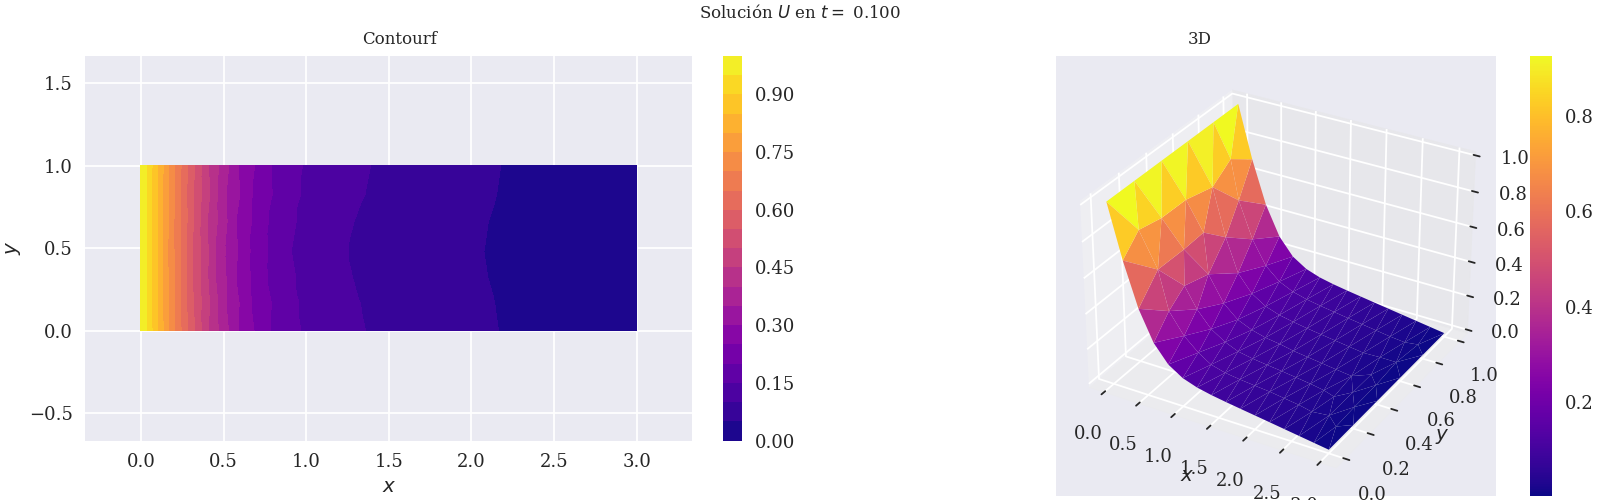
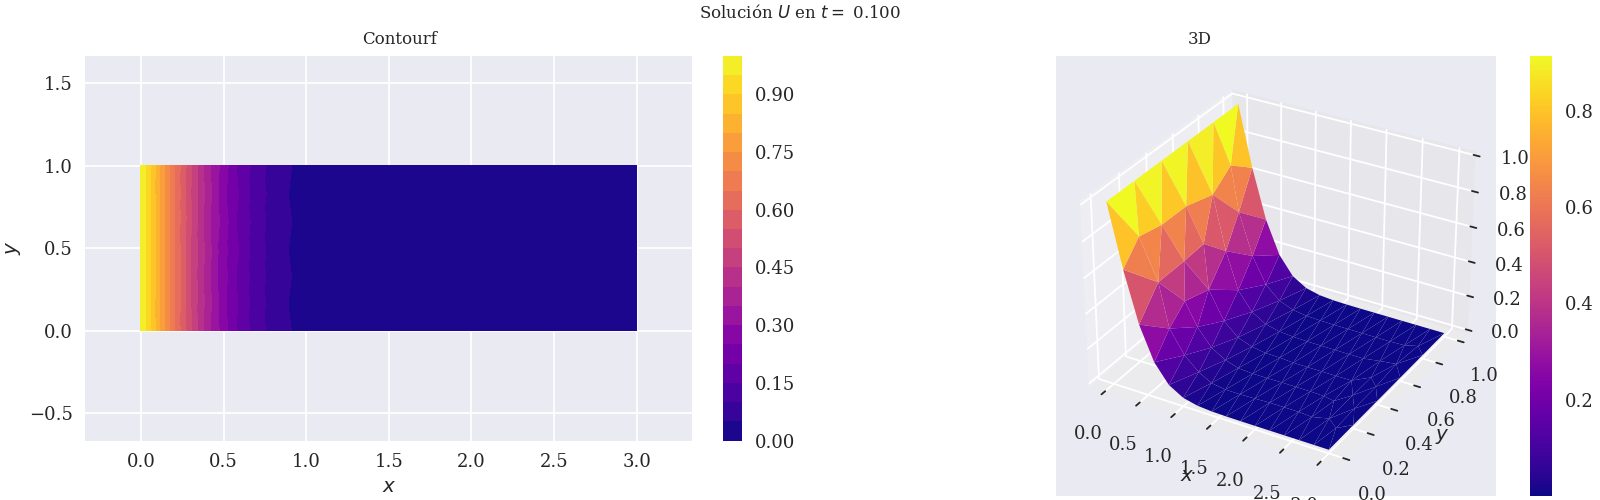
11 Backwar Euler terminado

diff --git a/10-Euler2D.py b/10-Euler2D.py
@@ -136,7 +136,7 @@ f = lambda p:  0
 L = np.array([0,0,0,2,0,2])
 
 # Condicinoes de frontera
-ul = lambda p: 1 # + 0.2*np.sin(np.pi*p[1])
+ul = lambda p: 1 # 1 + 0.2*np.sin(np.pi*p[1])
 ur = lambda p: 0
 ub = lambda p: 0
 ut = lambda p: 0
@@ -179,8 +179,8 @@ for i in bl:
     U0[i] = ul(coords[i])
 for i in br:
     U0[i] = ur(coords[i])
-U0[bb] = 1 - coords[bb,0]/3
-U0[bt] = 1 - coords[bt,0]/3
+U0[bb] = 0 # 1 - coords[bb,0]/3
+U0[bt] = 0 # 1 - coords[bt,0]/3
 U0[esquinas] = 1 - coords[esquinas,0]/3
 
 fig = plt.figure()
@@ -231,13 +231,14 @@ fig.colorbar(plot0)
 fig.colorbar(plot1)
 fig.suptitle("Solución $U$ en $t=$"+str(np.round(t[index],4)))
 # %%
-guarda_figuras = False
-indices = [0,10,20,50,100,200,500,1000,2000,5000,10000,15999]
+guarda_figuras = True
+indices = [0,50,200,1000,5000,15999]
 if guarda_figuras:
     for i in indices:
         fig = plt.figure(layout='constrained', figsize=(16,5))
         subfigs = fig.subfigures(1,2, wspace=0)
         ax0 = subfigs[0].subplots(1,1)
+        plt.style.context("paper3dplot.mplstyle")
         plot0 = ax0.tricontourf(
             coords[:,0],
             coords[:,1],
@@ -251,6 +252,7 @@ if guarda_figuras:
         subfigs[0].suptitle("Contourf")
 
         ax1 = subfigs[1].add_subplot(111, projection="3d")
+        plt.style.context("paper.mplstyle")
         plot1 = ax1.plot_trisurf(
             coords[:,0],
             coords[:,1],

diff --git a/11-BackwardEuler1D.py b/11-BackwardEuler1D.py
@@ -1,11 +1,52 @@
-#%%
-
-"""
-Librerías necesarias
-"""
-
 import numpy as np
 import matplotlib.pyplot as plt
-plt.style.use(['seaborn-v0_8','paper.mplstyle'])
-plt.rcParams['text.usetex'] = False
-mapa_de_color = "plasma"
+plt.style.use(["seaborn-v0_8", "paper.mplstyle"])
+
+u_0 = 1
+alpha = 2
+u_exact = lambda t: u_0 * np.exp(alpha * t)
+
+N = 11
+intervalo = [0, 1]
+t = np.linspace(
+    intervalo[0],
+    intervalo[1],
+    N
+)
+dt = np.diff(intervalo)/N
+
+u_ex = u_exact(t)
+plt.plot(t, u_ex, label="$u_{ex} ="+str(u_0)+"e^{"+str(alpha)+"t}$")
+
+# Método FE
+u_fe = np.zeros(N)
+u_fe[0] = u_0
+for i in range(N-1):
+    u_fe[i+1] = (1 + alpha * dt) * u_fe[i]
+
+plt.plot(t, u_fe, label="FE")
+
+# método BE
+u = np.zeros(N)
+u[0] = u_0
+for i in range(N-1):
+    u[i+1] = 1 / (1 - alpha * dt) * u[i]
+
+plt.plot(t, u, "o", alpha=0.5, label="BE")
+
+print(
+    "\n\n\n Método Backward Euler \n",
+    "---\n",
+    "t, u_ex, u_num, u_ex - u_num\n",
+    "---",
+)
+
+errores = np.vstack((t, u_ex, u, u_ex-u)).T
+print(np.round(errores, 2))
+print("Norma 2 = ", np.linalg.norm(errores[:,3]))
+
+
+plt.legend()
+plt.title("Método de Euler hacia atrás 1D")
+plt.savefig('figuras/11-BE1D.png')
+plt.show()

diff --git a/09-Euler1D.py b/09-Euler1D.py
@@ -6,7 +6,7 @@ u_0 = 1
 alpha = 2
 u_exact = lambda t: u_0 * np.exp(alpha * t)
 
-N = 101
+N = 11
 intervalo = [0, 1]
 t = np.linspace(
     intervalo[0],
@@ -22,7 +22,7 @@ plt.plot(t, u_ex, label="$u_{ex} ="+str(u_0)+"e^{"+str(alpha)+"t}$")
 u = np.zeros(N)
 u[0] = u_0
 for i in range(N-1):
-    u[i+1] = u[i] + dt * alpha * u[i]
+    u[i+1] = (1 + alpha * dt) * u[i]
 
 plt.plot(t, u, label="$u_{num}$")
 
@@ -40,5 +40,5 @@ print("Norma 2 = ", np.linalg.norm(errores[:,3]))
 
 plt.legend()
 plt.title("Método de Euler hacia adelante 1D")
-# plt.savefig('figuras/09-Euler1D.png')
+plt.savefig('figuras/09-Euler1D.png')
 plt.show()
